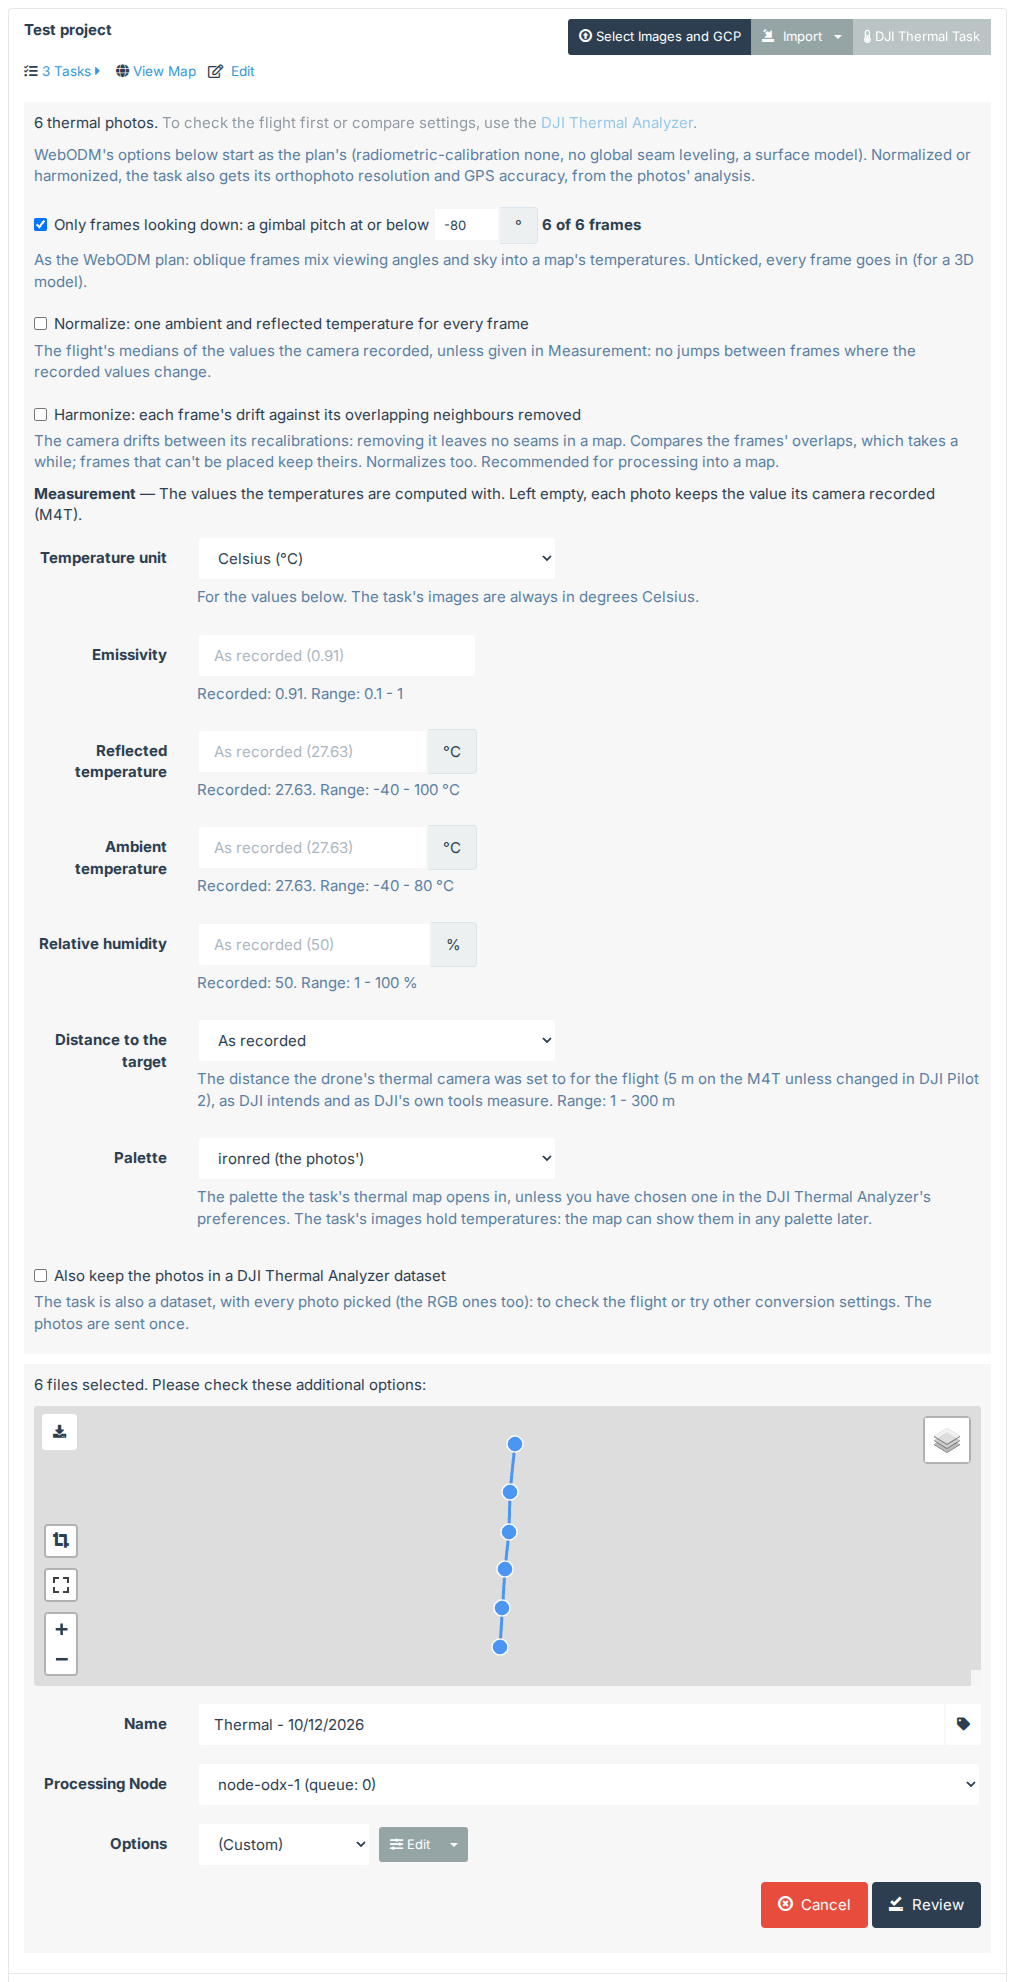
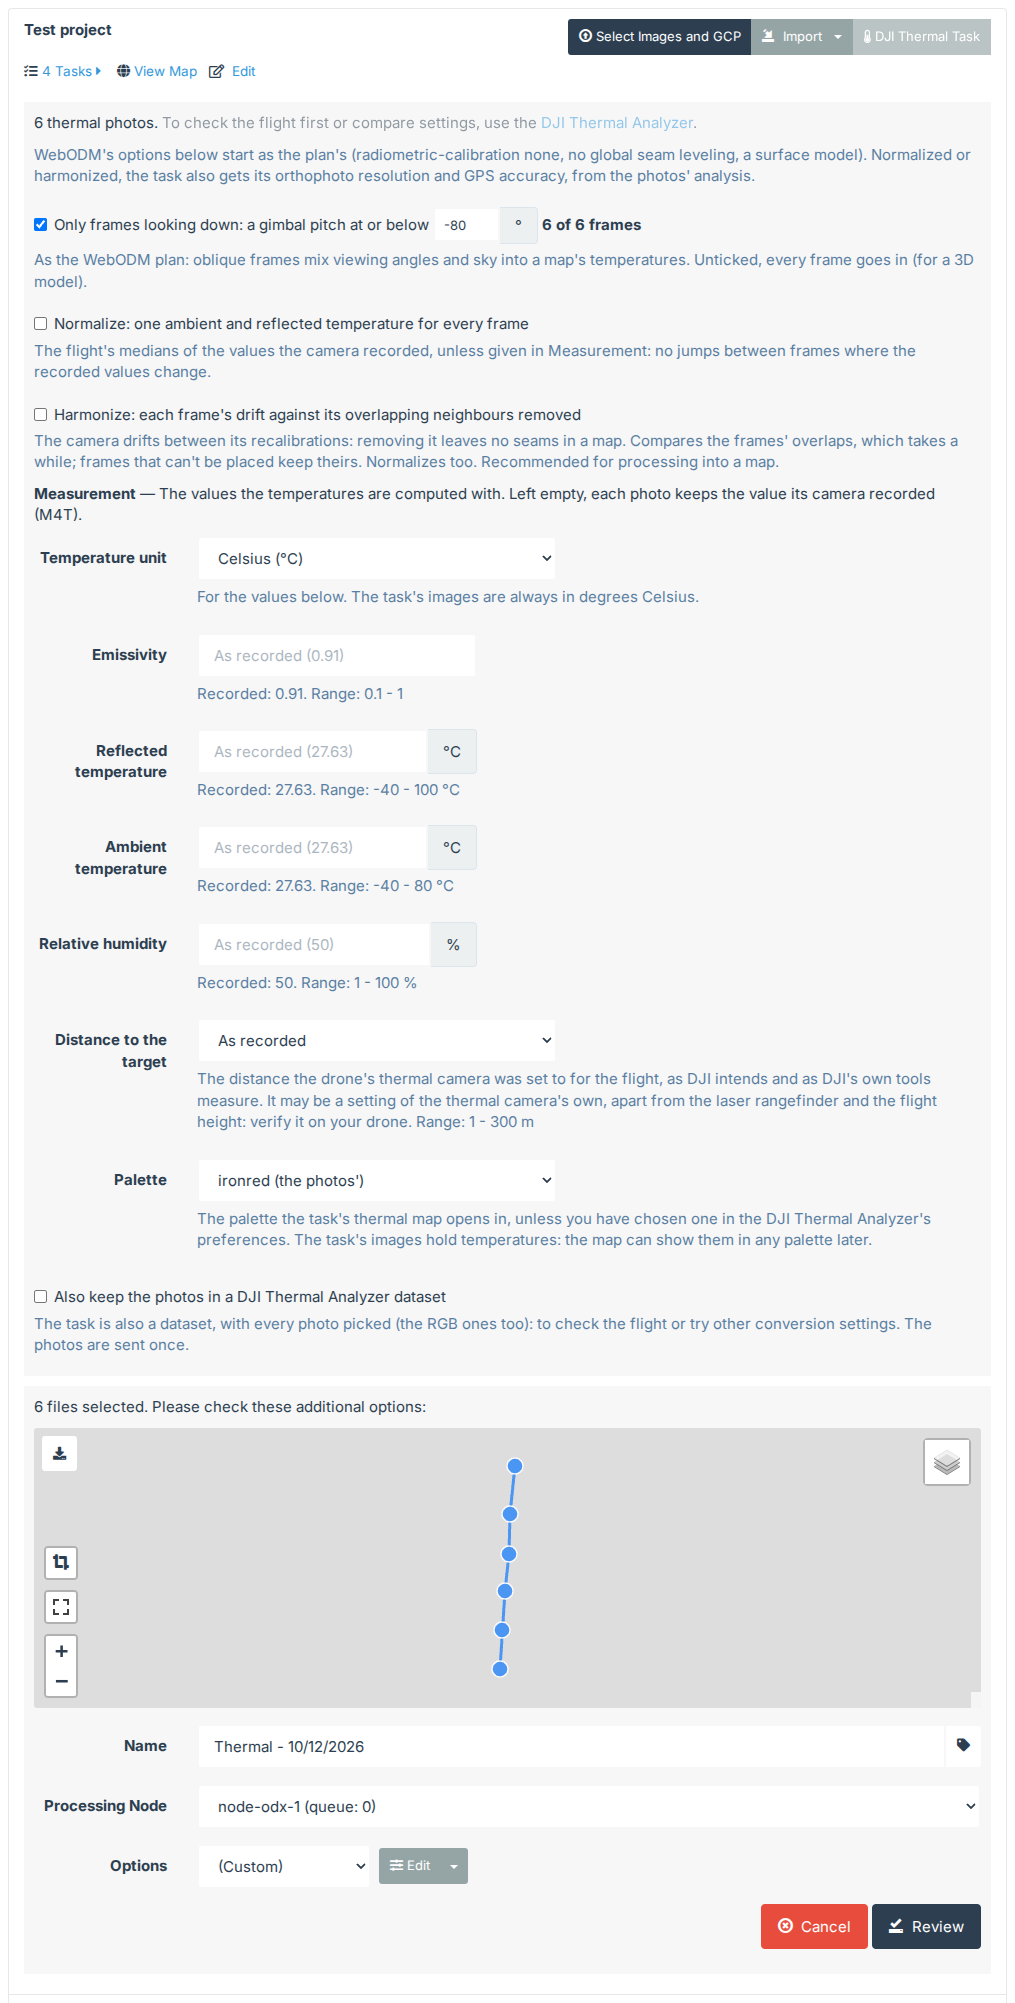
Distance: ask users to verify the thermal camera's distance setting on their drone
The help and docs said 5 m on the M4T unless changed in DJI Pilot 2; the
distance may be a setting of the thermal camera's own, apart from the
rangefinder and the flight height, and other models may differ.

diff --git a/dji-thermal/public/thermal/MeasurementSettings.jsx b/dji-thermal/public/thermal/MeasurementSettings.jsx
@@ -108,7 +108,7 @@ export default class MeasurementSettings extends React.Component {
                         <span className="help-block">{distanceMode === "lrf" ?
                             _("Experimental: each photo's laser rangefinder distance where it has a valid one, else the distance its camera recorded, given to DJI's automatic correction for the air. That correction grows with distance: at flight heights it can make temperatures differ greatly from the photo as its camera recorded them.") + " " :
                             distanceMode === "embedded" ?
-                            _("The distance the drone's thermal camera was set to for the flight (5 m on the M4T unless changed in DJI Pilot 2), as DJI intends and as DJI's own tools measure.") + " " : ""}
+                            _("The distance the drone's thermal camera was set to for the flight, as DJI intends and as DJI's own tools measure. It may be a setting of the thermal camera's own, apart from the laser rangefinder and the flight height: verify it on your drone.") + " " : ""}
                             {interpolate(_("Range: %(range)s"), {range: rangeText("distance", combined, unit)})}</span>
                     </div>
                 </div>

diff --git a/docs/distance.md b/docs/distance.md
@@ -26,7 +26,7 @@ checked this way.
 
 | Value in the photo | What it is | Used for temperatures? |
 |---|---|---|
-| The thermal camera's distance, in DJI's thermal data | The distance the pilot set in DJI Pilot 2's temperature measurement settings. On the M4T it is 5 m (16 ft) unless changed, with 50 % humidity. | Yes, by DJI's apps and tools, and by the plugin by default (**As recorded**). |
+| The thermal camera's distance, in DJI's thermal data | The distance the thermal camera was set to for the flight. It may be a setting of the thermal camera's own, apart from the laser rangefinder and the flight height: verify it on your drone. | Yes, by DJI's apps and tools, and by the plugin by default (**As recorded**). |
 | `LRFTargetDistance` | The laser rangefinder's beam length, from the camera to the point the laser hit. | Only if you choose **Laser rangefinder** (experimental). |
 | `LRFTargetAbsAlt`, `LRFTargetLat`, `LRFTargetLon` | Where the laser hit, as a position and altitude. | No. |
 | `RelativeAltitude`, `AbsoluteAltitude` | The drone's height above take-off, and its altitude. | No. |
@@ -34,7 +34,9 @@ checked this way.
 **The camera doesn't take the rangefinder's distance on the M4T.** With its default settings, the M4T writes 5 m into
 every photo, whatever the drone's height. On the M4T flight checked, all 217 photos record 5 m, while the rangefinder
 read from 8.9 m to 30.4 m (23.9 m median). Other models may differ: DJI's H30T documentation says DJI Pilot 2 can read
-the rangefinder automatically, and DJI's H30T sample image records 13 m. This hasn't been checked on an H30T flight.
+the rangefinder automatically, and DJI's H30T sample image records 13 m. This hasn't been checked on an H30T flight. So
+verify the thermal camera's distance setting on your drone (on the M4T, in DJI Pilot 2's temperature measurement
+settings), and whether it follows the rangefinder.
 
 **DJI calibrates the camera at a fixed distance.** DJI's Thermal Analysis Tool guide (v1.2) says: "The camera's
 default calibration distance is generally fixed during production. This is the distance at which temperature

diff --git a/docs/measurement.md b/docs/measurement.md
@@ -43,10 +43,10 @@ flight (here 26.6 to 27.8 °C) in steps of 1/16 °C. It's the camera's own estim
 
 How far the surface is from the camera, for the same air correction.
 
-**The intent of this setting is to match the drone's thermal camera, as DJI designed it.** The pilot sets the
-distance in DJI Pilot 2's temperature measurement settings; on the M4T it is 5 m (16 ft), with 50 % humidity,
-unless changed there, and the camera doesn't take the laser rangefinder's distance. The camera writes the setting
-into each photo, and DJI's own tools measure each photo with it. DJI's Thermal Analysis Tool guide says "The
+**The intent of this setting is to match the drone's thermal camera, as DJI designed it.** The distance
+may be a setting of the thermal camera's own, apart from the laser rangefinder and the flight height (on the M4T,
+in DJI Pilot 2's temperature measurement settings), so verify it on your drone before a flight. The camera writes
+the setting into each photo, and DJI's own tools measure each photo with it. DJI's Thermal Analysis Tool guide says "The
 camera's default calibration distance is generally fixed during production. This is the distance at which
 temperature measurements are the most accurate." So the plugin measures with it too, by default.
 

diff --git a/upcoming-changes.md b/upcoming-changes.md
@@ -29,6 +29,10 @@
   the distances a photo holds, one distance per photo, each camera's range and the clamp, what the distance does,
   why the rangefinder is experimental, what outputs record), linked from `docs/index.md`, `docs/measurement.md` and
   the README. Screenshot retaken: `workset-settings`. Jest (the menu's names, the help), ESLint.
+  Then (the user, 2026-11-26): "Instead of saying \"5 m on the M4T unless changed in DJI Pilot 2\" we should inform
+  the user that the distance for the thermal camera may be a separate configuration option and they should verify
+  the setting on their drone." The task panel's As recorded help, the README, `measurement.md` and `distance.md` now
+  say so (`distance-verify-setting`); `thermal-task-panel` retaken.
 - **D4. Distance: as recorded by default** (`d4-distance-embedded`) — 2026-11-25, built. The user, 2026-11-25: "We
   shouldn't use the laser as default. We should actually use whatever the camera was configured for during its
   flight", and: "be sure to point out in the description and documentation that the intent of the distance setting

diff --git a/README.md b/README.md
@@ -108,7 +108,8 @@ viewer's base layers are WebODM's own, loaded by your browser as on WebODM's oth
    - **Emissivity**, **reflected temperature**, **ambient temperature** (the H20T and XT S do not use it, and the
      form says so) and **relative humidity**.
    - **Distance to the target**: by default **As recorded**, the distance the drone's thermal camera was set to for
-     the flight and recorded in each photo (on the M4T 5 m unless changed in DJI Pilot 2). The intent of the setting
+     the flight and recorded in each photo. It may be a setting of the thermal camera's own, apart from the laser
+     rangefinder and the flight height: verify it on your drone. The intent of the setting
      is to match the drone's thermal camera, as DJI designed it: DJI calibrates the camera at a fixed distance, and
      its own tools measure each photo with the distance it records. The setting doesn't change the photo's raw data;
      it only sets how much DJI's SDK corrects for the air. Or **Laser rangefinder, else as recorded (Experimental)**
